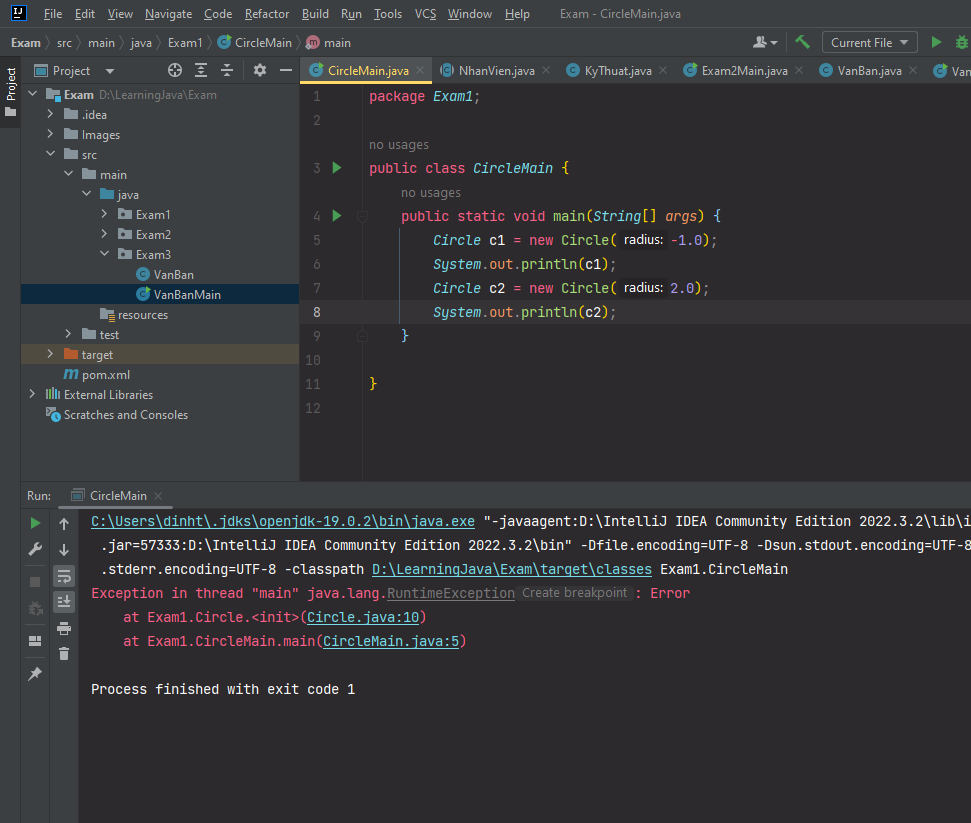
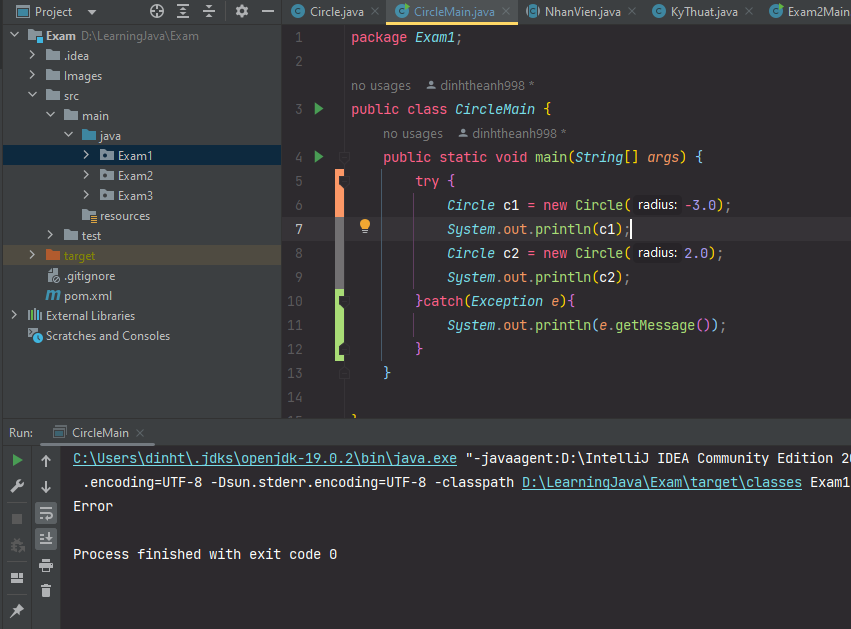
Update code and images

diff --git a/src/main/java/Exam1/CircleMain.java b/src/main/java/Exam1/CircleMain.java
@@ -2,10 +2,14 @@ package Exam1;
 
 public class CircleMain {
     public static void main(String[] args) {
-        Circle c1 = new Circle(3.0);
-        System.out.println(c1);
-        Circle c2 = new Circle(2.0);
-        System.out.println(c2);
+        try {
+            Circle c1 = new Circle(-3.0);
+            System.out.println(c1);
+            Circle c2 = new Circle(2.0);
+            System.out.println(c2);
+        }catch(Exception e){
+            System.out.println(e.getMessage());
+        }
     }
 
 }
